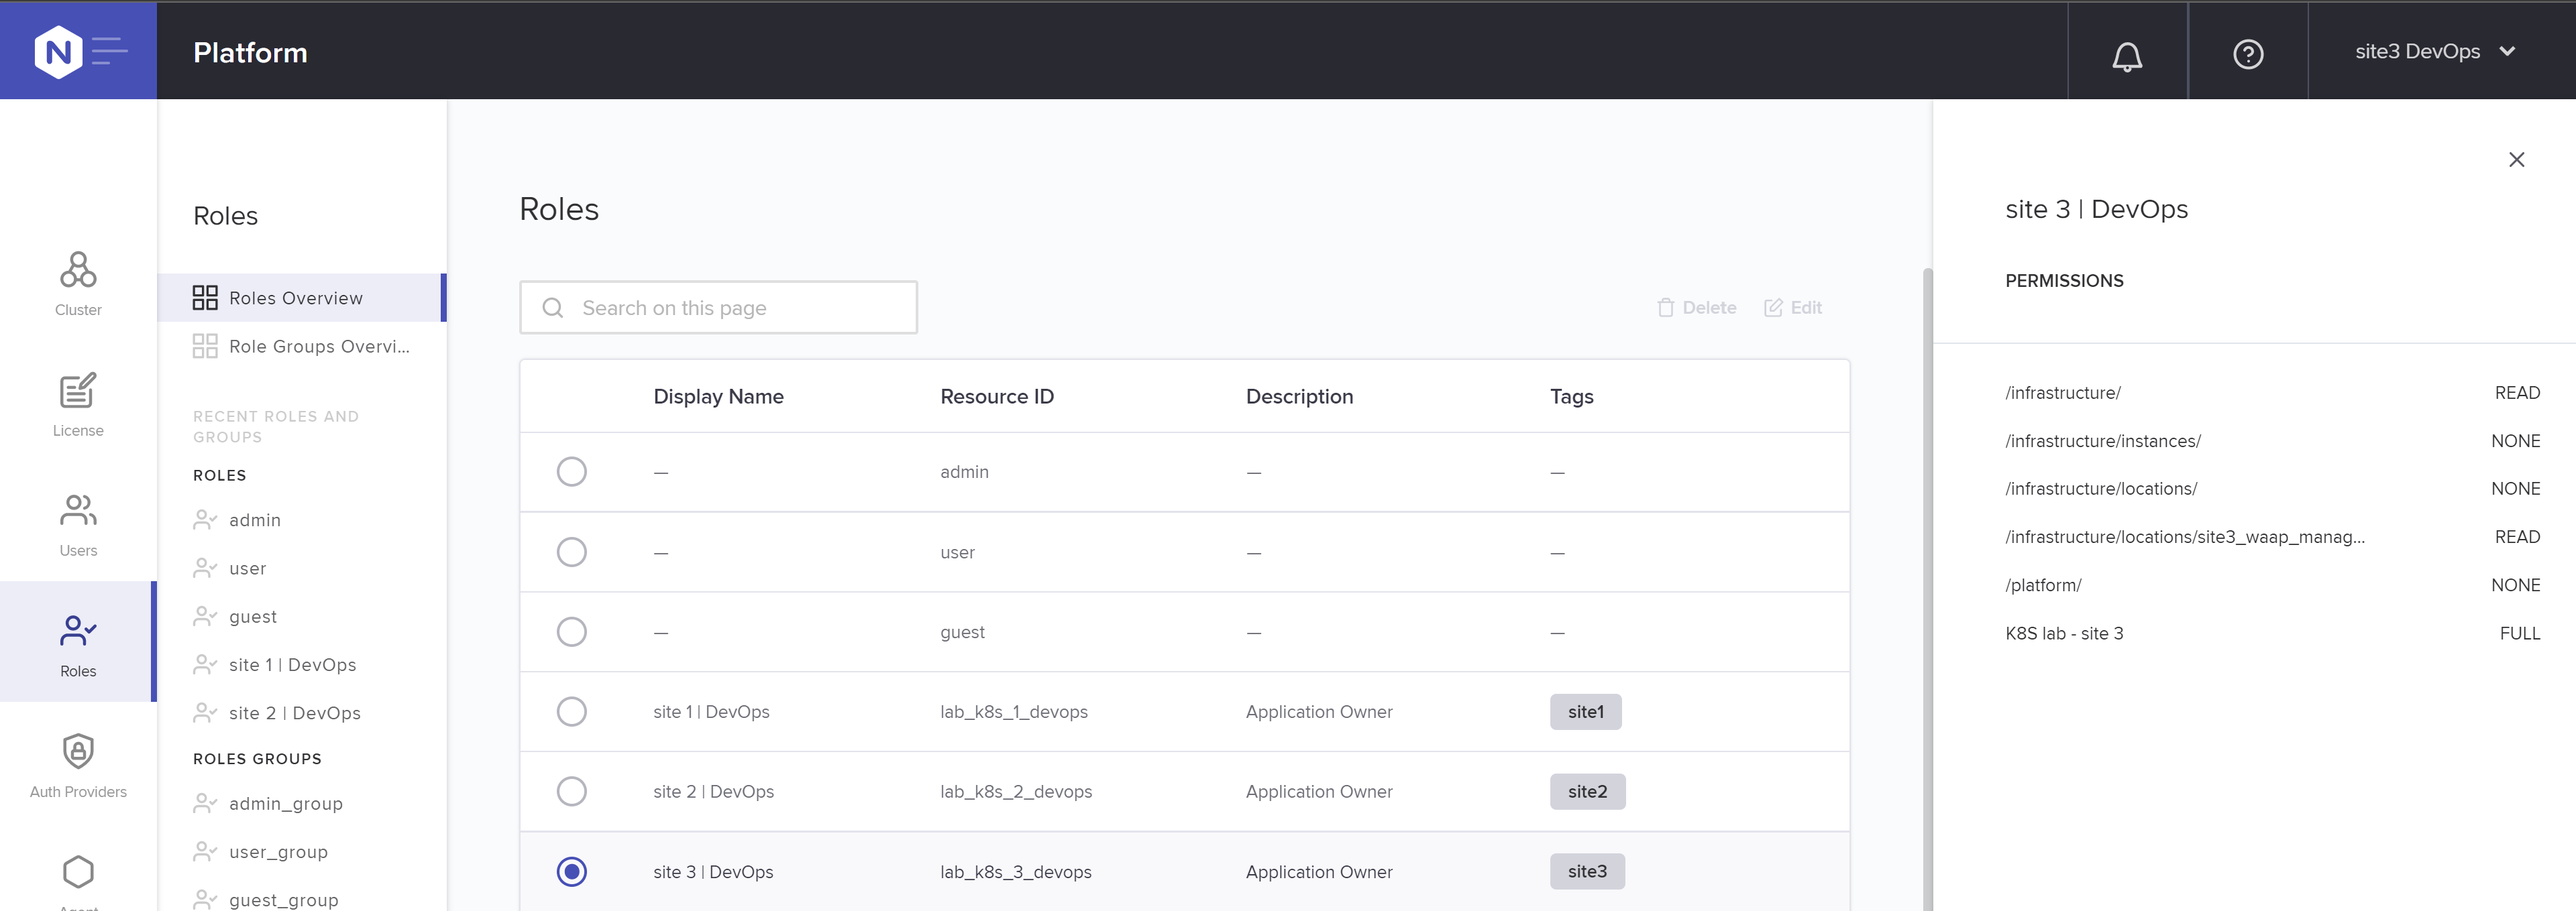
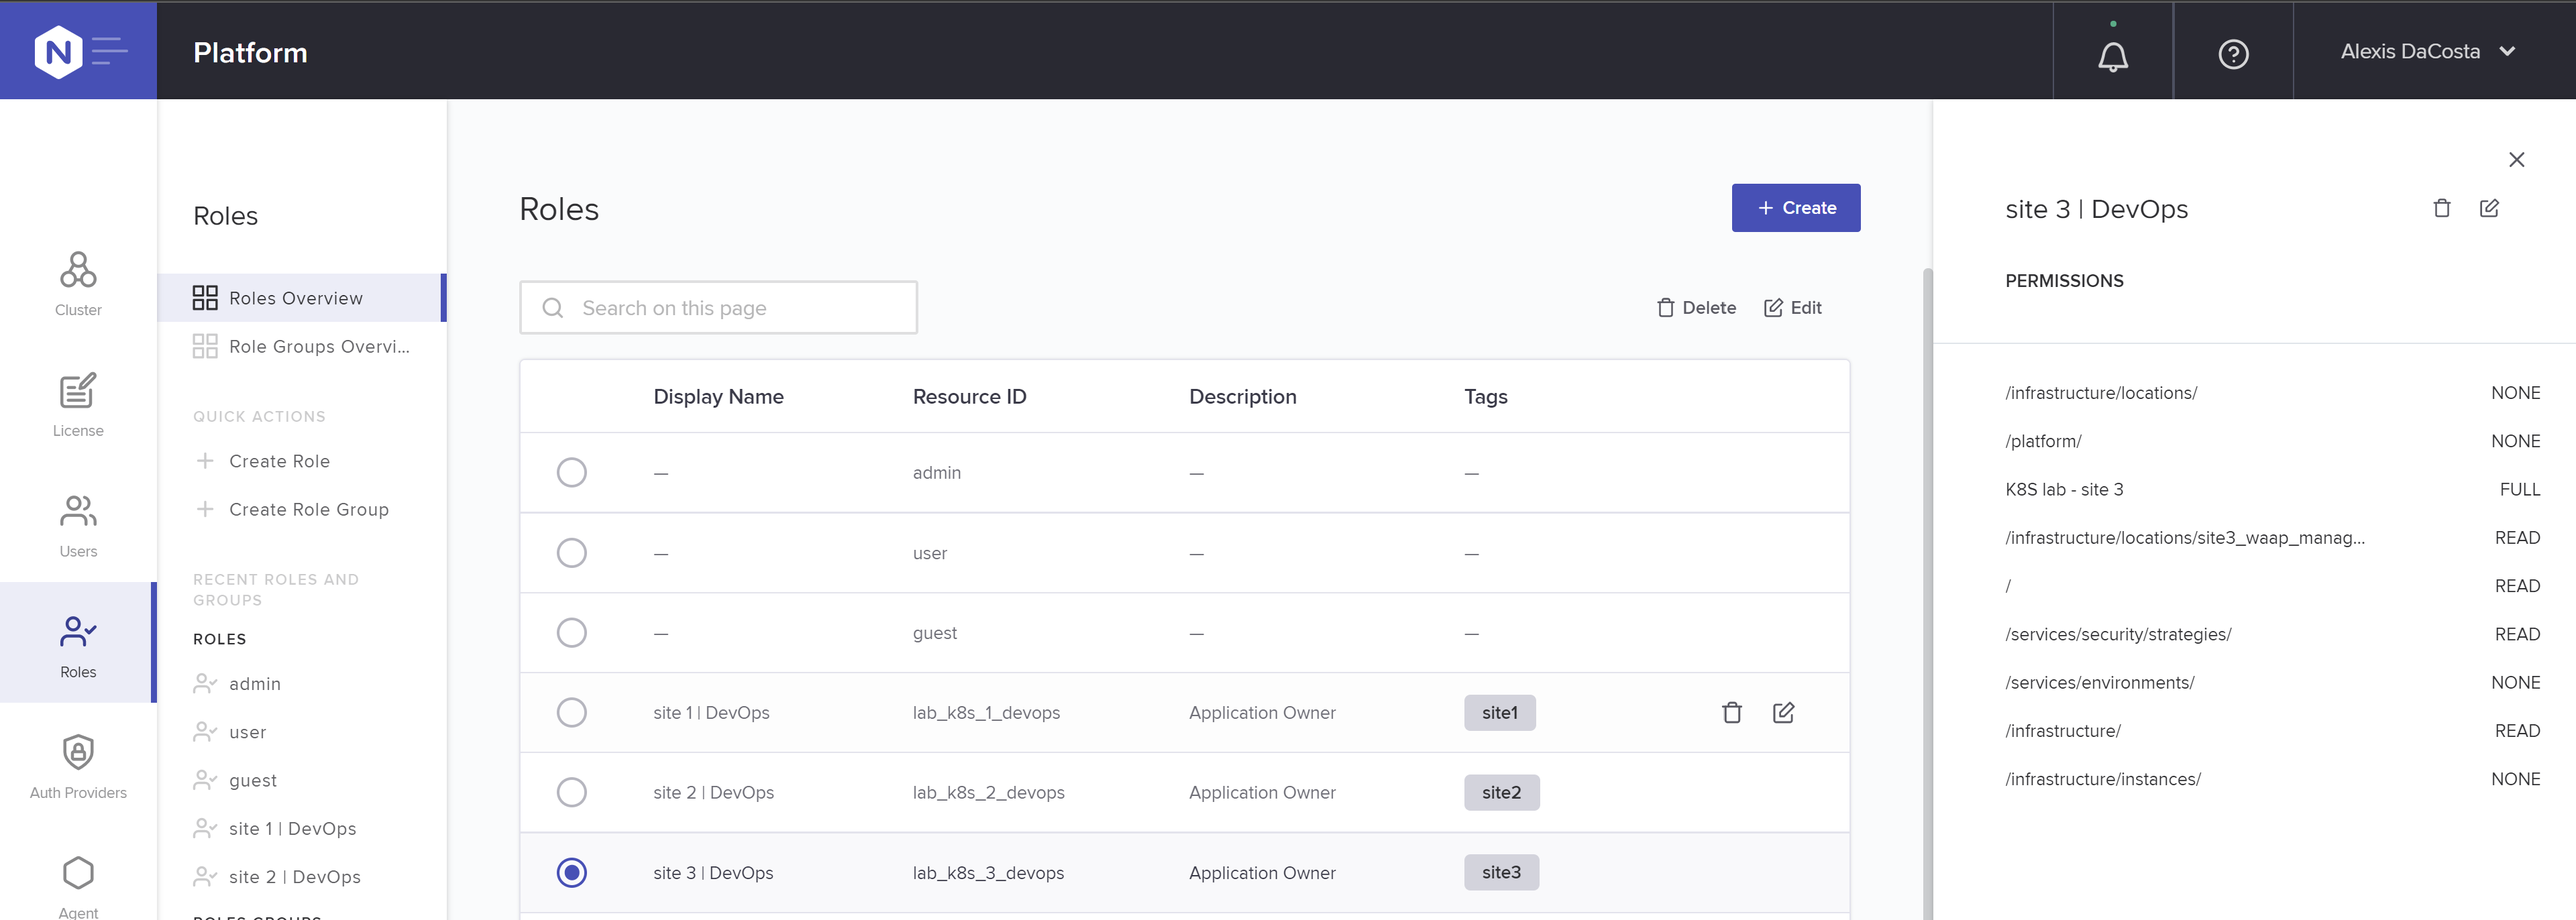
rolling upgrade

diff --git a/source/class6/module2/module2.rst b/source/class6/module2/module2.rst
@@ -1,6 +1,10 @@
 Exercises
 #################################################################
 
+.. contents:: Contents
+    :local:
+    :depth: 2
+
 By the end of the lab you will be able to:
 
 - **Life Cycle Management**
@@ -20,10 +24,6 @@ By the end of the lab you will be able to:
 
     - Detect which Components have not a policy attached to it
 
-.. contents:: Contents
-    :local:
-    :depth: 2
-
 Life Cycle Management
 *********************************************
 
@@ -36,7 +36,7 @@ Exercise 1: Scale Out
    :width: 900
    :alt: Show instances
 
-- Scroll to see the environment variable used to startup PODs
+- Scroll to see the environment variable when a POD starts
 
 .. code-block:: yaml
     :emphasize-lines: 3
@@ -135,13 +135,13 @@ _______________________________________________________________________
 
     .. code-block:: bash
 
-        sudo yum --showduplicates list app-protect-attack-signatures
+    sudo yum --showduplicates list app-protect-attack-signatures
 
 - Show the last update of Threat Campaign
 
     .. code-block:: bash
 
-        sudo yum --showduplicates list app-protect-threat-campaigns
+    sudo yum --showduplicates list app-protect-threat-campaigns
 
 - Go to ``Workloads`` **>** ``Deployments`` **>** ``NameSpace: waap-managed`` **>** ``nginx-appprotect``
 - Update specification using latest image of NGINX App Protect
@@ -187,18 +187,19 @@ _______________________________________________________________________
         }
     }
 
-False Positive Management
+Multi-Tenancy
 *********************************************
 
-Exercise 3: View all applications as a NetOps
+Exercise 3: SuperNetOps
 =============================================
+
+User Role of a SuperNetOps allow user to view all Services (READ authorization)
 
 - In NGINX Controller, login as SuperNetOps
 
     - email:  supernetops@f5cloudbuilder.dev
     - password: NGINXC0ntroller!
 
-- User Role of a SuperNetOps allow user to view all Services (READ authorization)
 - Go to ``Platform`` **>** ``User Role`` then see configuration PATHs and attached authorization levels
 
 .. image:: ./_pictures/Controller_platform_user_role_supernetops.png
@@ -208,15 +209,16 @@ Exercise 3: View all applications as a NetOps
 
 - Go to ``Services`` **>** ``Gateway``. You can see all gateways but edit none.
 
-Exercise 4: View application configuration
+Exercise 4: DevOps & Tenant
 ============================================
+
+User Role of a Devops allow user to create, update and delete Services (FULL authorization) of its own environment {{ site_ID }}
 
 - In NGINX Controller, login as DevOps owner of your site
 
     - email:  devops{{ site_ID }}@f5cloudbuilder.dev
     - password: NGINXC0ntroller!
 
-- User Role of a Devops allow user to create, update and delete Services (FULL authorization) of its own environment {{ site_ID }}
 - Go to ``Platform`` **>** ``User Role`` then see configuration PATHs and attached authorization levels
 
 .. image:: ./_pictures/Controller_platform_user_role_devops.png
@@ -233,11 +235,24 @@ Exercise 4: View application configuration
    :alt: User Role DevOps
 
     **Note**
-    NGINX Controller v4: specifics``instance-groups`` could be assign to a User Role
+    NGINX Controller v4: specific ``instance-groups`` could be assign to a User Role
 
 - In your web browser, go to ``https://sentence-front-managed{{ site_ID }}.f5app.dev`` and generate some traffic by refreshing 10 times the page
 - Go to ``Services`` **>** ``Apps`` **>** ``sentence-front-managed{{ site_ID }}.f5app.dev``
 - Update filter to ``Last 15 minutes``
 - Scroll down to ``Web (HTTP) Components`` and see graphs
 - Switch tab to ``Latency metrics``, click on compare to ``Prev week`` and see graphs
+
+Exercise 5: Super SecOps
+============================================
+
+- In NGINX Controller, login as SuperSecOps
+
+    - email:  supersecops@f5cloudbuilder.dev
+    - password: NGINXC0ntroller!
+
+
+
+
+
 
